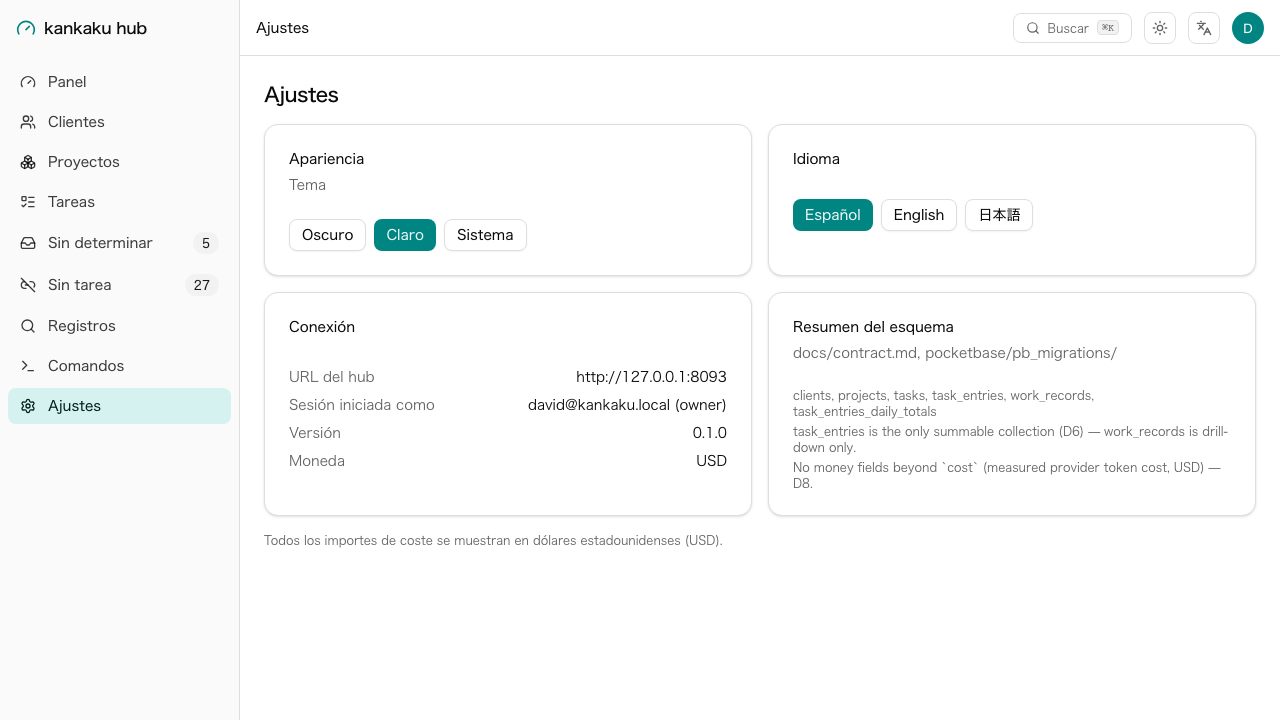
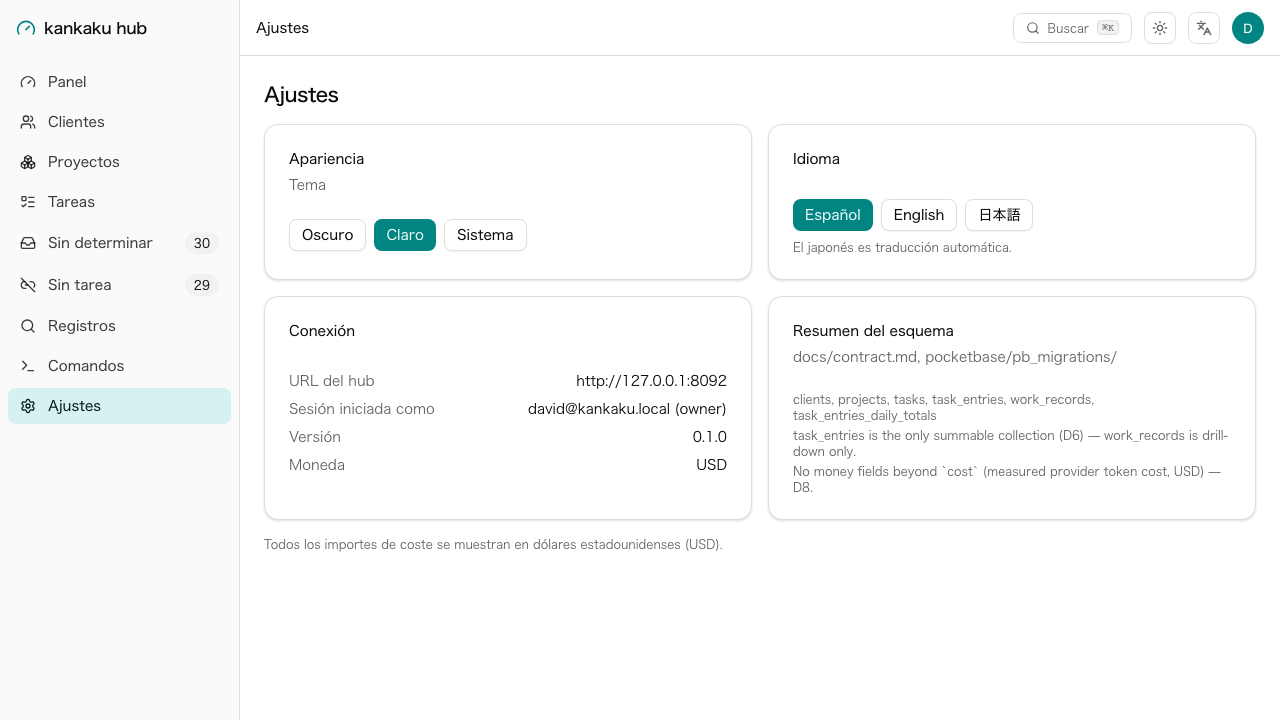
feat(web): disclose machine-translated Japanese in Settings
The public site already discloses that the Japanese copy is
machine-authored (site's jaDisclaimer); the app never did. Add a
short, unobtrusive note next to the language switch in Settings,
visible in every locale (not just when ja is active). Screenshots
regenerated for the changed screen only.

diff --git a/web/app/pages/settings/index.vue b/web/app/pages/settings/index.vue
@@ -43,14 +43,19 @@ const hubUrl = useHubUrl()
           {{ t('settings.language') }}
         </CardTitle>
       </CardHeader>
-      <CardContent class="flex flex-wrap gap-2">
-        <Button
-          v-for="l in locales" :key="typeof l === 'string' ? l : l.code"
-          size="sm" :variant="locale === (typeof l === 'string' ? l : l.code) ? 'default' : 'outline'"
-          @click="setLocale(typeof l === 'string' ? l : l.code)"
-        >
-          {{ typeof l === 'string' ? l : l.name }}
-        </Button>
+      <CardContent class="flex flex-col gap-2">
+        <div class="flex flex-wrap gap-2">
+          <Button
+            v-for="l in locales" :key="typeof l === 'string' ? l : l.code"
+            size="sm" :variant="locale === (typeof l === 'string' ? l : l.code) ? 'default' : 'outline'"
+            @click="setLocale(typeof l === 'string' ? l : l.code)"
+          >
+            {{ typeof l === 'string' ? l : l.name }}
+          </Button>
+        </div>
+        <p class="text-xs text-muted-foreground">
+          {{ t('settings.jaDisclaimer') }}
+        </p>
       </CardContent>
     </Card>
 
